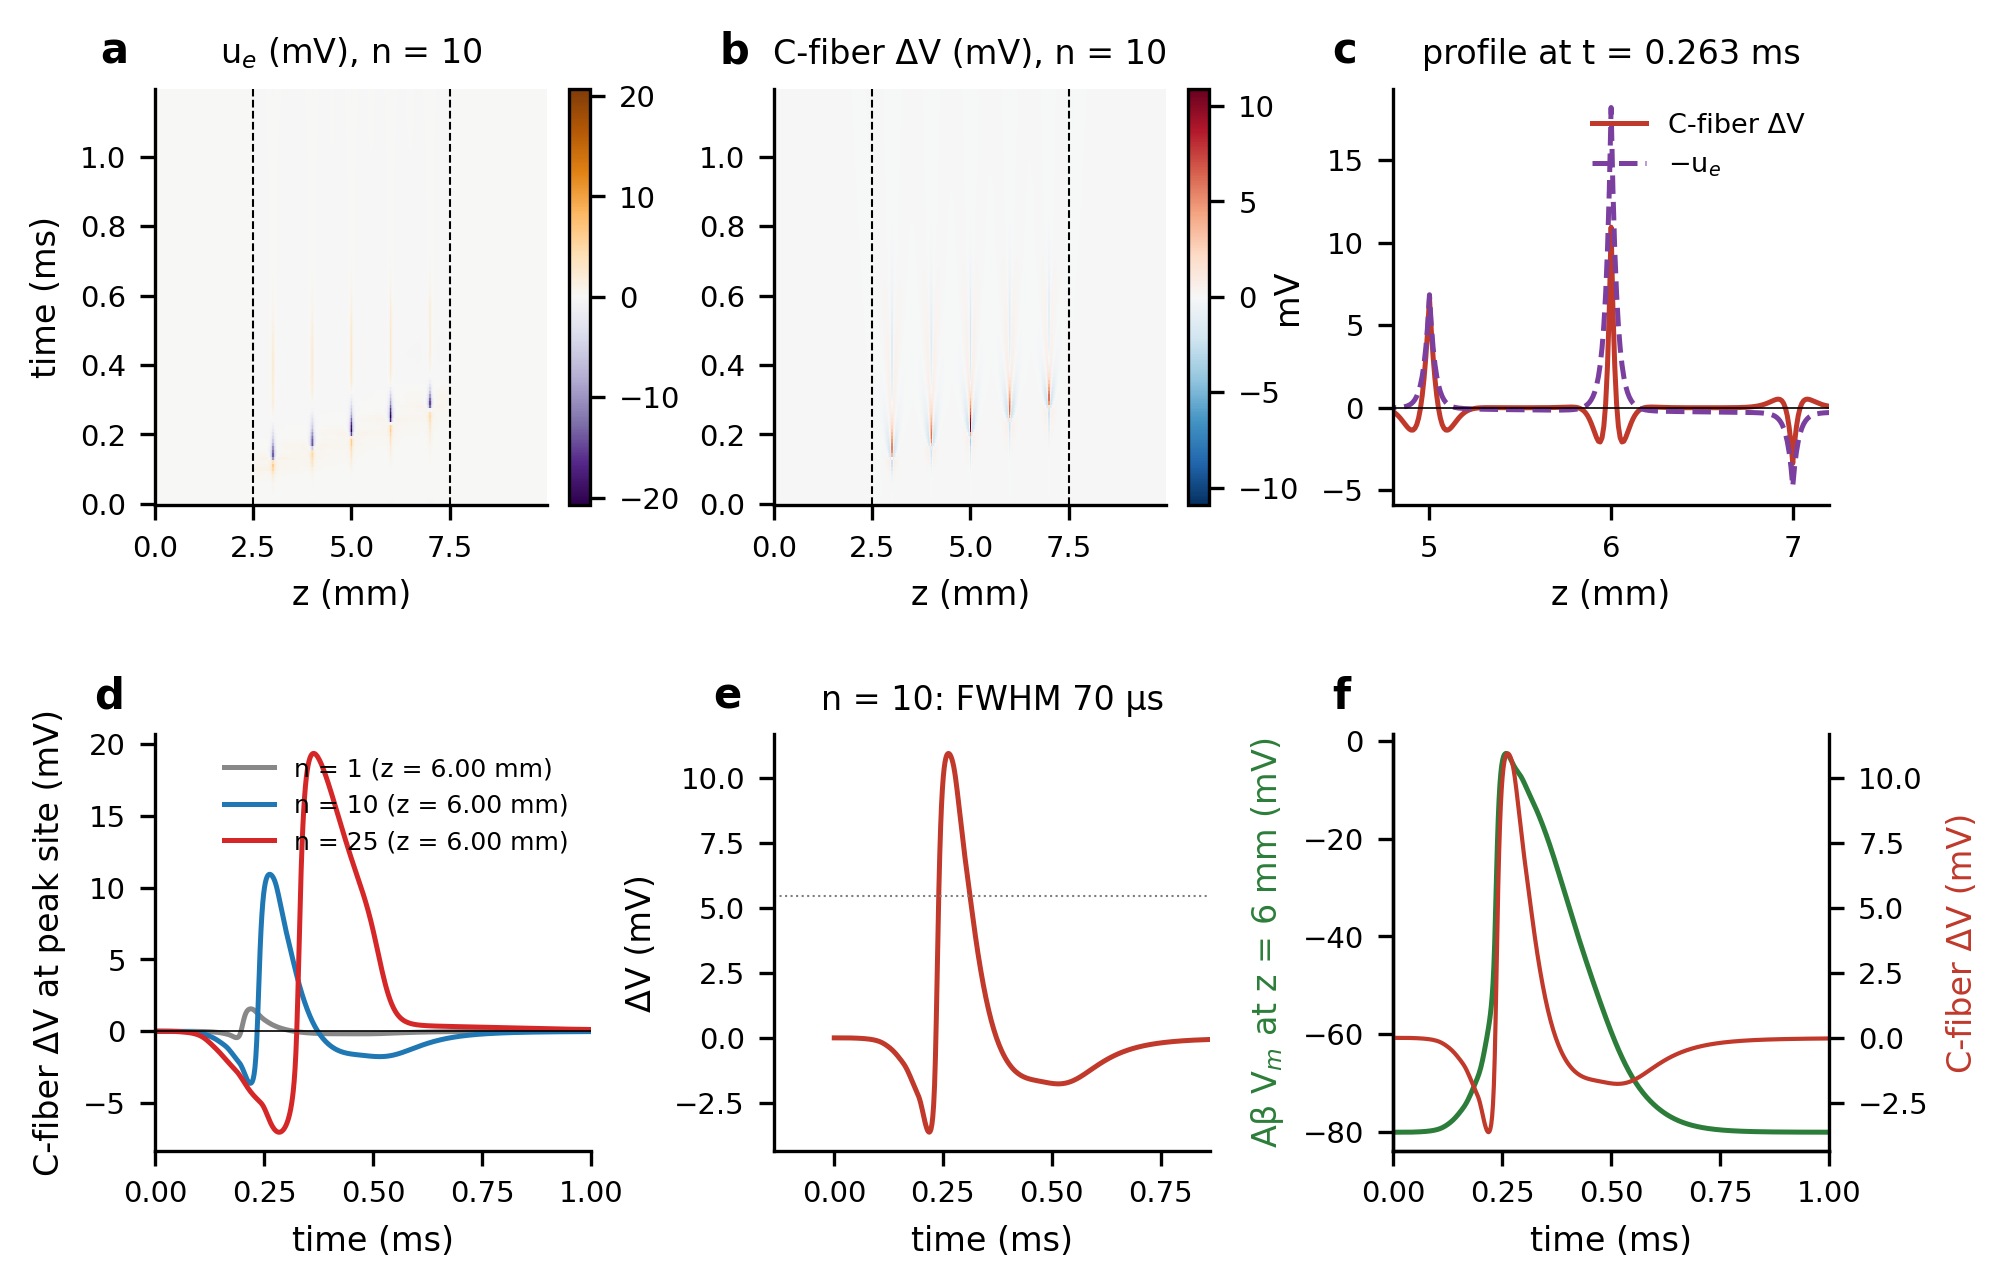
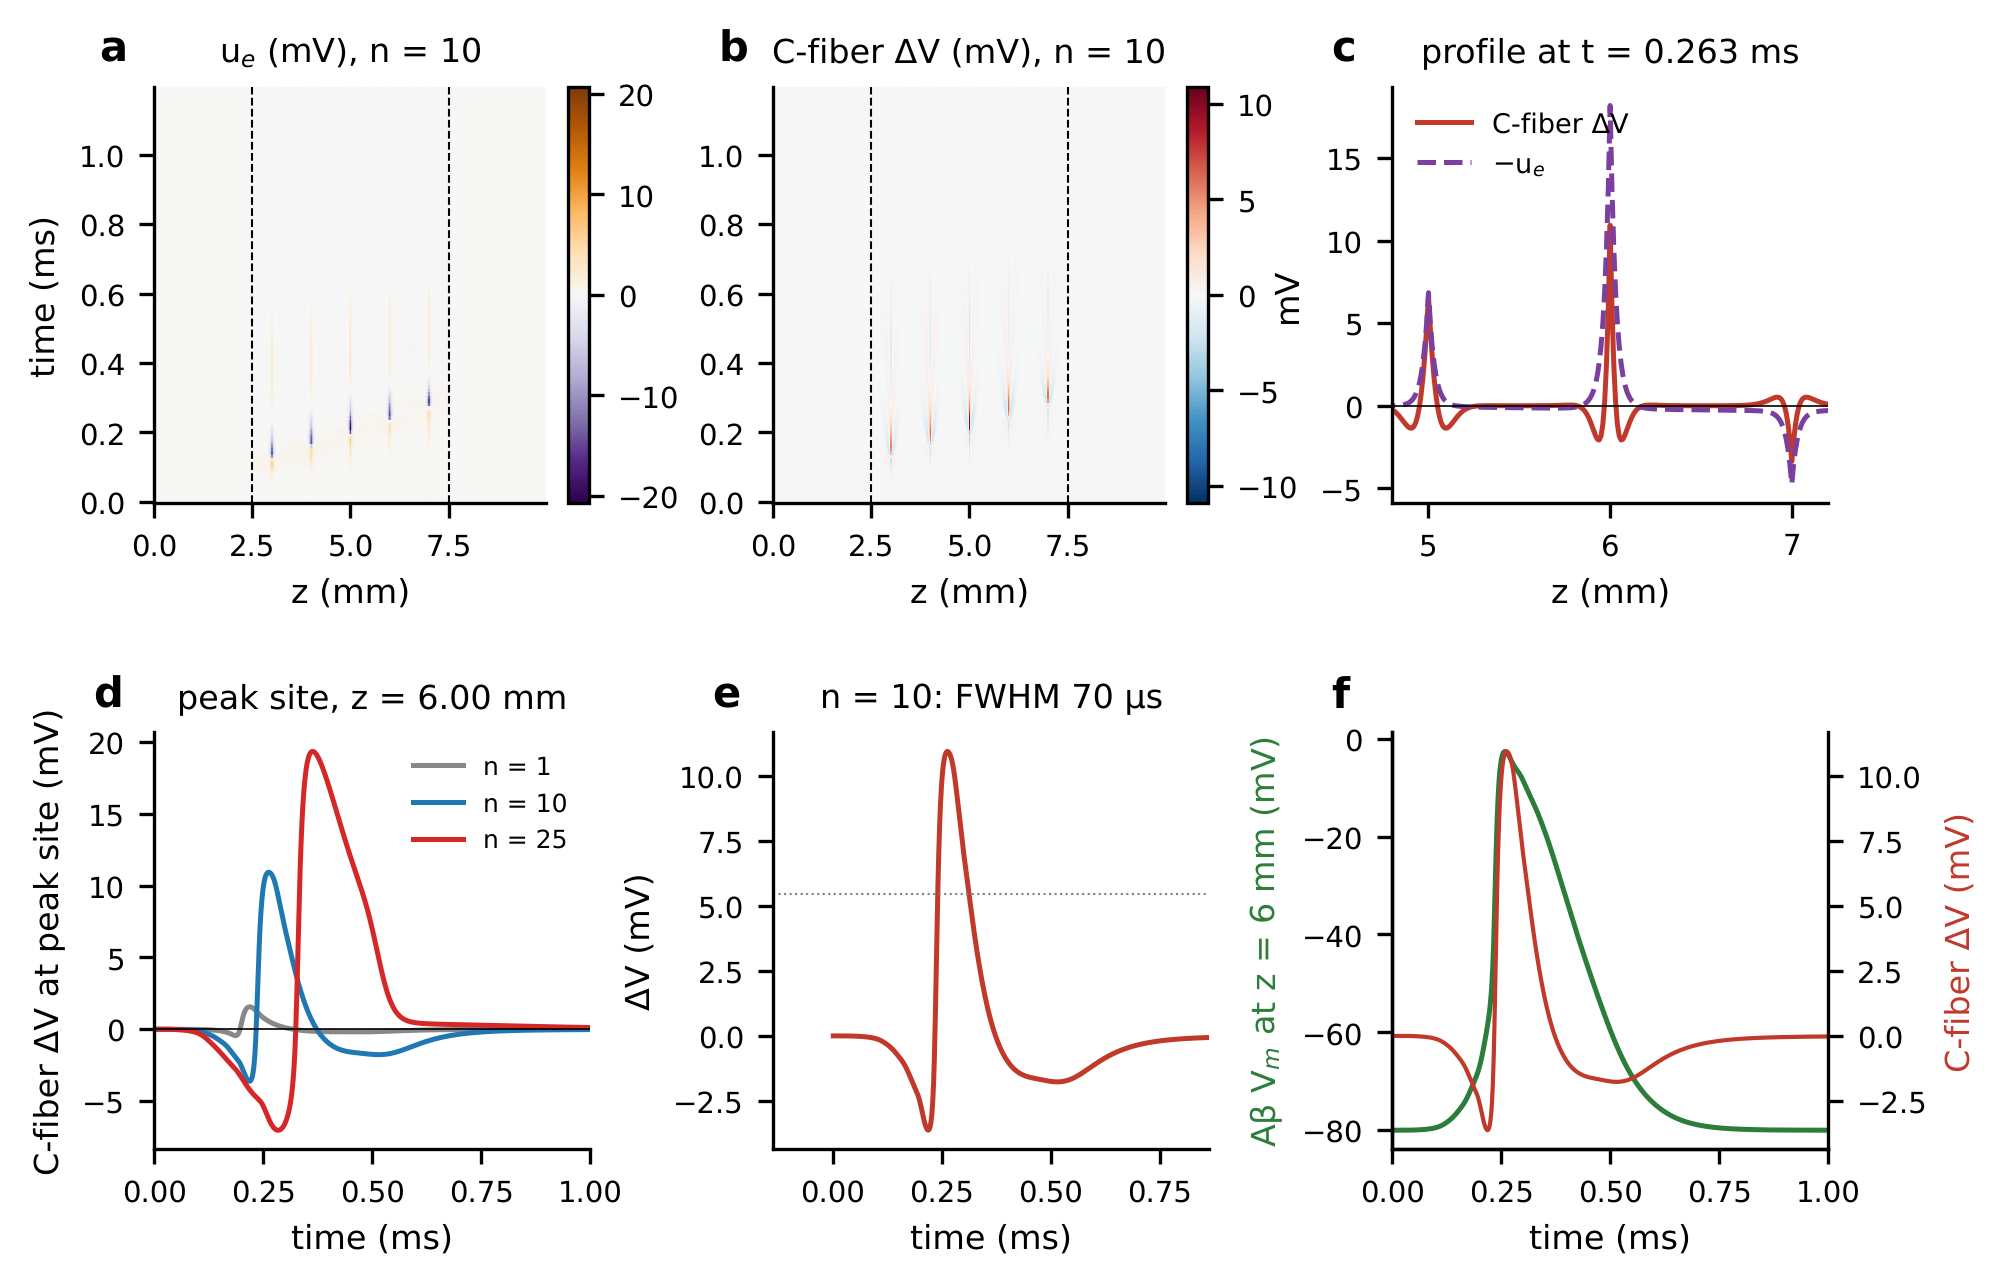
Figure layout: no labels or legends over the data
Figs. 2, 4, 5, S2 and S3 redrawn from the stored results with layout changes
only: legends moved off the curves (below the panels where no corner is free),
panel letters placed clear of the axis labels, readable tick labels in Fig. 2,
and the Fig. 2a title named as in the caption.  No data changed.

Claude-Session: https://claude.ai/code/session_01Y2zhELkMvXvCZo9PehHsDM

diff --git a/src/figures/fig5_n_sweep.py b/src/figures/fig5_n_sweep.py
@@ -3,14 +3,14 @@
 import os
 import numpy as np
 import pandas as pd
-from style import plt, save, COL, panel, ROOT
+from style import plt, save, COL, panel_letters, ROOT
 from ephaptic.params import A_REF, equivalent_gap
 
 D = os.path.join(ROOT, "results", "data")
 n3 = pd.read_csv(os.path.join(D, "e03_n_sweep.csv"))
 g4 = pd.read_csv(os.path.join(D, "e04_geometry.csv"))
 
-fig, axs = plt.subplots(1, 3, figsize=(7.2, 2.5))
+fig, axs = plt.subplots(1, 3, figsize=(7.2, 2.9))
 ax = axs[0]
 d = n3[n3.model == "NavC"].sort_values("n_abeta")
 h = n3[n3.model == "HH"].sort_values("n_abeta")
@@ -19,7 +19,7 @@ ax.plot(h.n_abeta, h.dv_lesion_mV, "o", ms=4.5, mfc="none", color=COL["HH"], lab
 ax.plot(d.n_abeta, d.hyp_lesion_mV, ":", color=COL["NavC"], lw=1)
 fail = d[~d.ab_conducts.astype(bool)].n_abeta.min()
 ax.axvspan(fail, 480, color="#eeeeee", zorder=0)
-ax.text(fail * 1.15, -12, "Aβ fails\nin lesion", fontsize=6.5, color="#555555")
+ax.text(370, -21, "Aβ fails\nin lesion", fontsize=6.5, color="#555555", ha="right")
 ax.axhline(0, color="k", lw=0.5)
 ax.set_xscale("log"); ax.set_xlim(0.8, 400); ax.set_ylim(-35, 32)
 ax.set_xlabel("synchronous Aβ fibers n")
@@ -33,7 +33,6 @@ top.set_xticks(ticks); top.set_xticklabels([f"{equivalent_gap(A_REF / n) * 1e9:.
 top.minorticks_off()
 top.set_xlabel("w$_{eq}$ (nm)", fontsize=7)
 top.spines["top"].set_visible(True)
-panel(ax, "a")
 
 ax = axs[1]
 for kind in ("NavC", "HH"):
@@ -41,10 +40,9 @@ for kind in ("NavC", "HH"):
     ax.plot(d.n_abeta, d.ab_cv_lesion, "-o", ms=3, color=COL[kind] if kind == "NavC" else COL["abeta"])
     break
 ax.set_xscale("log"); ax.set_xlim(0.8, 400)
-ax.set_xlabel("n"); ax.set_ylabel("Aβ CV in lesion, nodes 3→7 mm (m/s)")
+ax.set_xlabel("n"); ax.set_ylabel("Aβ CV in lesion (m/s)")
 ax.axvspan(fail, 480, color="#eeeeee", zorder=0)
 ax.set_ylim(0, 42)
-panel(ax, "b")
 
 ax = axs[2]
 for kind, mk in (("NavC", "s"), ("HH", "o")):
@@ -58,7 +56,7 @@ for kind, mk in (("NavC", "s"), ("HH", "o")):
 ax.set_xscale("log")
 ax.set_xlabel("periaxonal gap w (nm)"); ax.set_ylabel("C-fiber peak ΔV (mV)")
 ax.set_ylim(0, 32)
-ax.legend(frameon=False, fontsize=5.8, loc="upper right")
-panel(ax, "c")
+ax.legend(frameon=False, fontsize=5.8, loc="upper center", bbox_to_anchor=(0.5, -0.36), ncol=2, columnspacing=0.8)
 fig.tight_layout()
+panel_letters(fig, axs, "abc", dy=0.10)
 save(fig, "fig5_n_sweep.png")

diff --git a/src/figures/fig2_numerics.py b/src/figures/fig2_numerics.py
@@ -1,7 +1,8 @@
 """Fig. 2 - Numerical verification (data: e02_*.csv)."""
 import numpy as np
 import pandas as pd
-from style import plt, save, COL, panel, ROOT
+from matplotlib.ticker import FixedLocator, FixedFormatter, NullLocator
+from style import plt, save, COL, panel_letters, ROOT
 import os
 
 D = os.path.join(ROOT, "results", "data")
@@ -18,9 +19,9 @@ for n, c in cols.items():
                 label=f"n = {n}" if scheme == "monolithic" else None)
 ax.set_xscale("log"); ax.invert_xaxis()
 ax.set_xlabel("Δt (µs)"); ax.set_ylabel("C-fiber ΔV, z = 3–8 mm (mV)")
-ax.set_title("Earlier geometry: lagged (--) vs\nmonolithic (—) coupling", fontsize=8)
-ax.legend(frameon=False, loc="center left")
-panel(ax, "a")
+ax.set_title("Extended compartment: lagged (--)\nvs monolithic (—) coupling", fontsize=8)
+ax.legend(frameon=False, loc="upper center", bbox_to_anchor=(0.5, -0.27), ncol=4, fontsize=6.5,
+          columnspacing=0.8, handlelength=1.6)
 
 ax = axs[1]
 for kind, mk in (("NavC", "s"), ("HH", "o")):
@@ -33,7 +34,6 @@ ax.axvline(1.0, color=COL["grey"], lw=0.6, ls="--")
 ax.set_xscale("log"); ax.invert_xaxis()
 ax.set_xlabel("Δt (µs)  [Δz = 5 µm]"); ax.set_ylabel("deviation from Δt = 0.125 µs (%)")
 ax.set_title("Production configuration:\ntime-step refinement", fontsize=8)
-panel(ax, "b")
 
 ax = axs[2]
 for kind, mk in (("NavC", "s"), ("HH", "o")):
@@ -46,6 +46,11 @@ ax.axvline(5.0, color=COL["grey"], lw=0.6, ls="--")
 ax.set_xscale("log"); ax.invert_xaxis()
 ax.set_xlabel("Δz (µm)  [Δt = 1 µs]"); ax.set_ylabel("deviation from Δz = 1.25 µm (%)")
 ax.set_title("Production configuration:\ngrid refinement", fontsize=8)
-panel(ax, "c")
+for ax, ticks in ((axs[0], [0.125, 0.5, 1, 5]), (axs[1], [0.125, 0.25, 0.5, 1, 2]),
+                  (axs[2], [1.25, 2.5, 5, 10, 20])):
+    ax.xaxis.set_major_locator(FixedLocator(ticks))
+    ax.xaxis.set_major_formatter(FixedFormatter([f"{t:g}" for t in ticks]))
+    ax.xaxis.set_minor_locator(NullLocator())
 fig.tight_layout()
+panel_letters(fig, axs, "abc", dy=0.08)
 save(fig, "fig2_numerics.png")

diff --git a/src/figures/fig4_drive.py b/src/figures/fig4_drive.py
@@ -41,17 +41,18 @@ ax.plot(z, -W[f"{key}__ue_profile"], color=COL["ue"], ls="--", label="−u$_e$")
 ax.set_xlim(zp - 1.2, zp + 1.2); ax.axhline(0, color="k", lw=0.4)
 ax.set_xlabel("z (mm)"); ax.set_ylabel("mV")
 ax.set_title(f"profile at t = {tp:.3f} ms", fontsize=8)
-ax.legend(frameon=False, fontsize=6.5)
+ax.legend(frameon=False, fontsize=6.5, loc="upper left")
 panel(ax, "c")
 
 ax = fig.add_subplot(gs[1, 0])
 for n, c in ((1, "#888888"), (10, "#1f77b4"), (25, "#d62728")):
     kk = f"NavC_n{n}"
-    ax.plot(W[f"{kk}__t"] * 1e3, W[f"{kk}__dv_peak"], color=c,
-            label=f"n = {n} (z = {W[f'{kk}__peak_z_mm'][0]:.2f} mm)")
+    ax.plot(W[f"{kk}__t"] * 1e3, W[f"{kk}__dv_peak"], color=c, label=f"n = {n}")
 ax.set_xlim(0, 1.0); ax.axhline(0, color="k", lw=0.4)
 ax.set_xlabel("time (ms)"); ax.set_ylabel("C-fiber ΔV at peak site (mV)")
-ax.legend(frameon=False, fontsize=6)
+ax.legend(frameon=False, fontsize=6, loc="upper right")
+zs = sorted({f"{W[f'NavC_n{n}__peak_z_mm'][0]:.2f}" for n in (1, 10, 25)})
+ax.set_title(f"peak site, z = {' / '.join(zs)} mm", fontsize=8)
 panel(ax, "d")
 
 ax = fig.add_subplot(gs[1, 1])

diff --git a/src/figures/figS2_full_length.py b/src/figures/figS2_full_length.py
@@ -24,7 +24,6 @@ for ax, ret, letter in ((axs[0], "returned", "a"), (axs[1], "omitted", "b")):
     ax.set_xlabel("n"); ax.set_ylabel("max |u$_e$| (mV)")
     ax.set_title(f"electrode current {ret}\n(* = propagating C-fiber AP)", fontsize=7.5)
     panel(ax, letter)
-axs[0].legend(frameon=False, fontsize=6, title="Aβ stimulus", title_fontsize=6)
 ax = axs[2]
 for ret, ls in (("returned", "-"), ("omitted", "--")):
     dd = d[(d.model == "NavC") & (d.electrode_current == ret)]
@@ -36,6 +35,9 @@ ax.set_xlabel("n"); ax.set_ylabel("Aβ node-0 peak V$_m$ (mV)")
 ax.set_title("electrode-site Aβ membrane\n(solid: returned, dashed: omitted)", fontsize=7.5)
 panel(ax, "c")
 fig.tight_layout()
+h, l = axs[0].get_legend_handles_labels()
+fig.legend(h, l, title="Aβ stimulus", title_fontsize=6, fontsize=6, ncol=4, frameon=False,
+           loc="upper center", bbox_to_anchor=(0.5, 0.02))
 save(fig, "figS2_full_length.png")
 
 fig, axs = plt.subplots(1, 2, figsize=(5.4, 2.4))

diff --git a/src/figures/style.py b/src/figures/style.py
@@ -28,5 +28,16 @@ def save(fig, name):
     print("  wrote", os.path.relpath(p, ROOT))
 
 
+def panel_letters(fig, axs, letters, dy=0.035):
+    """Panel letters placed left of each panel's tick and axis labels (no overlap with them)."""
+    fig.canvas.draw()
+    inv = fig.transFigure.inverted()
+    r = fig.canvas.get_renderer()
+    for ax, s in zip(axs, letters):
+        x0 = inv.transform((ax.get_tightbbox(r).x0, 0))[0]
+        y1 = inv.transform((0, ax.get_window_extent().y1))[1]
+        fig.text(x0 - 0.012, y1 + dy, s, fontsize=10, fontweight="bold", ha="right", va="bottom")
+
+
 def panel(ax, letter):
     ax.text(-0.14, 1.04, letter, transform=ax.transAxes, fontsize=10, fontweight="bold", va="bottom")

diff --git a/src/figures/figS3_lesion_stimulus.py b/src/figures/figS3_lesion_stimulus.py
@@ -18,7 +18,6 @@ for n, c in NS:
         blocked = q[~q.ab_conducts.astype(bool)]
         ax.plot(blocked.lesion_mm, blocked.dv_lesion_mV, "x", ms=6, color="k")
 ax.set_xlabel("lesion length (mm)"); ax.set_ylabel("C-fiber peak ΔV (mV)")
-ax.legend(frameon=False, fontsize=6.5)
 panel(ax, "a")
 
 ax = axs[1]
@@ -34,4 +33,6 @@ ax.set_title("× : Aβ AP blocked in lesion", fontsize=7)
 panel(ax, "b")
 
 fig.tight_layout()
+h, l = axs[0].get_legend_handles_labels()
+fig.legend(h, l, fontsize=6.5, ncol=4, frameon=False, loc="upper center", bbox_to_anchor=(0.5, 0.02))
 save(fig, "figS3_lesion_stimulus.png")
